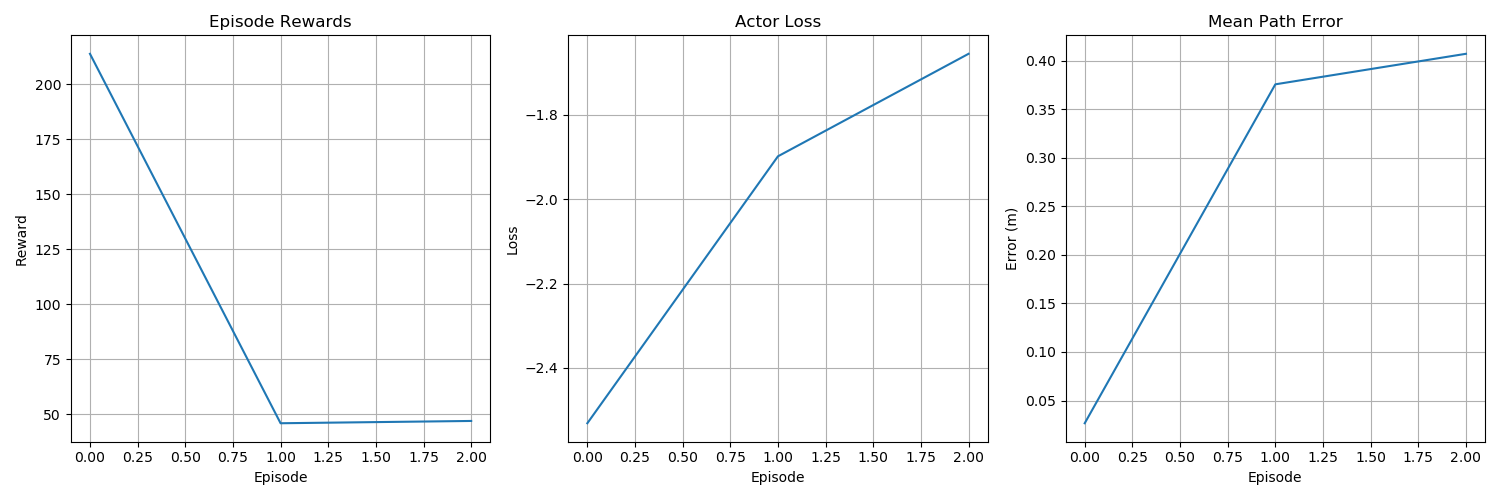
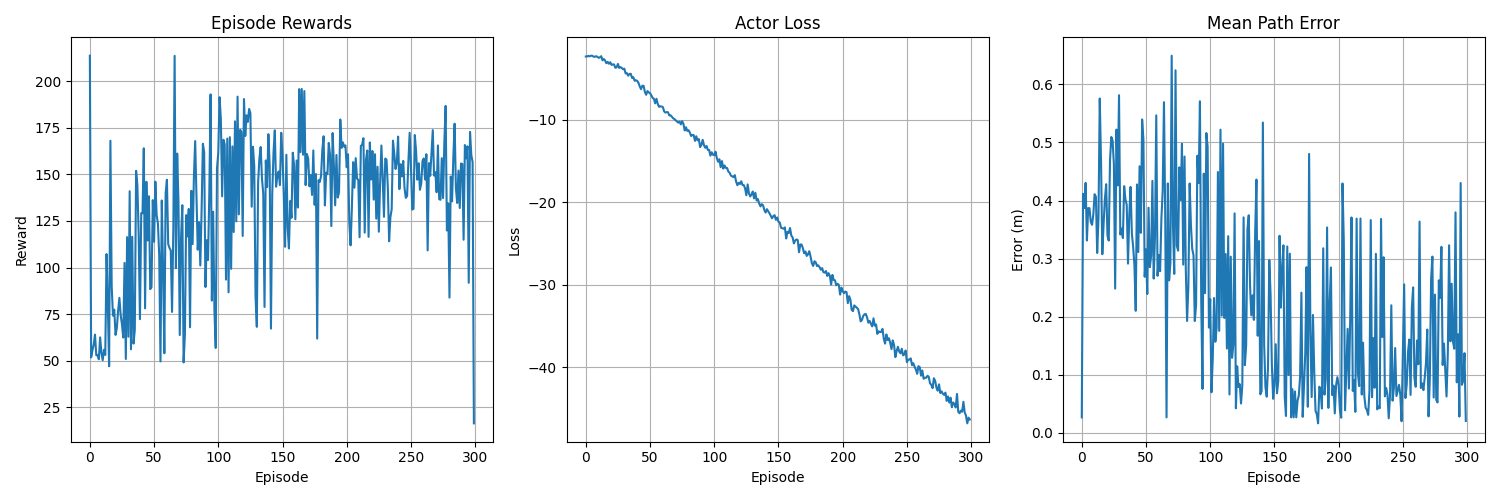
Trained Agent
300 Episodes trained agent with no initial position randomization.

diff --git a/ReinformentLearning/RLAgent.py b/ReinformentLearning/RLAgent.py
@@ -34,6 +34,8 @@ class DDPGAgent:
     def __init__(self, config: DDPGConfig):
         self.config = config
         self.device = torch.device("cuda" if torch.cuda.is_available() else "cpu")
+        print(self.device)
+        torch.serialization.add_safe_globals([DDPGConfig])
         
         # Actor Networks
         self.actor = ActorNetwork(

diff --git a/TrainAgent.py b/TrainAgent.py
@@ -35,7 +35,7 @@ def plot_training_metrics(rewards: List[float], losses: List[float], errors: Lis
     plt.savefig('training_metrics.png')
     plt.close()
 
-def train_agent(num_episodes: int = 100):
+def train_agent(num_episodes: int = 300):
     # Create environment
     bridge = CoppeliaBridge()
     config = EpisodeConfig(

diff --git a/TestAgent.py b/TestAgent.py
@@ -23,7 +23,7 @@ def test_agent(model_path: str, num_episodes: int = 5):
     agent_config = DDPGConfig(
         state_dim=vector_dim,
         action_dim=2,
-        hidden_dim=128,
+        hidden_dim=256,
         action_bounds=((-0.5, 0.5), (0, 10))
     )
     agent = DDPGAgent(agent_config)

diff --git a/ReinformentLearning/Environment.py b/ReinformentLearning/Environment.py
@@ -40,7 +40,7 @@ class RLEnvironment:
         time.sleep(0.5)
         
         self.bridge.setSimStepping(True)
-        self.bridge.startSimulation()
+        self.bridge.startSimulation(True)
         self.bridge.renderState(self.config.render_enabled)
         time.sleep(0.5)
         
